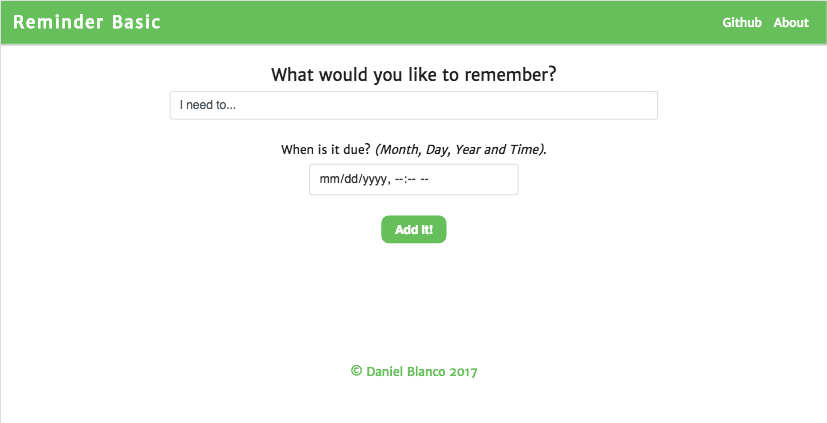
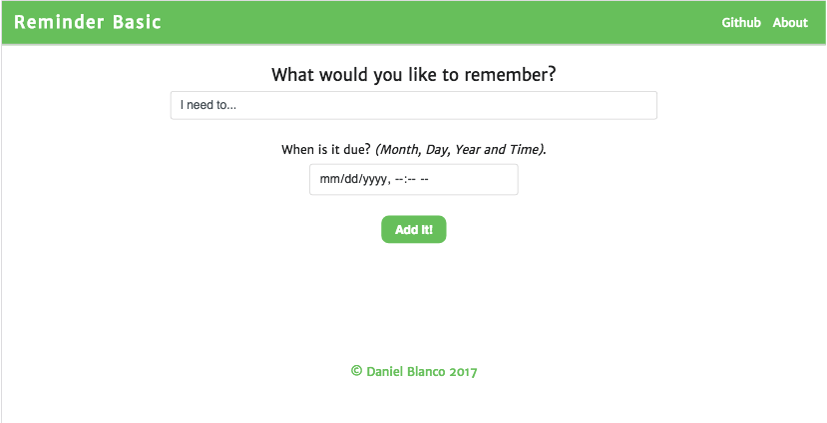
fixed border on screenshots

diff --git a/README.md b/README.md
@@ -66,18 +66,4 @@ A CRUD web application built with React and Redux. The user can create and delet
 
 ### Link to the live site
 
-https://polar-waters-92149.herokuapp.com/
-
-
-### Installation
-
-Loginapp requires [Node.js](https://nodejs.org/) v4+ to run.
-
-
-```sh
-$ npm install
-```
-
-```sh
-$ npm start
-```
+https://reminder-basic.herokuapp.com/
